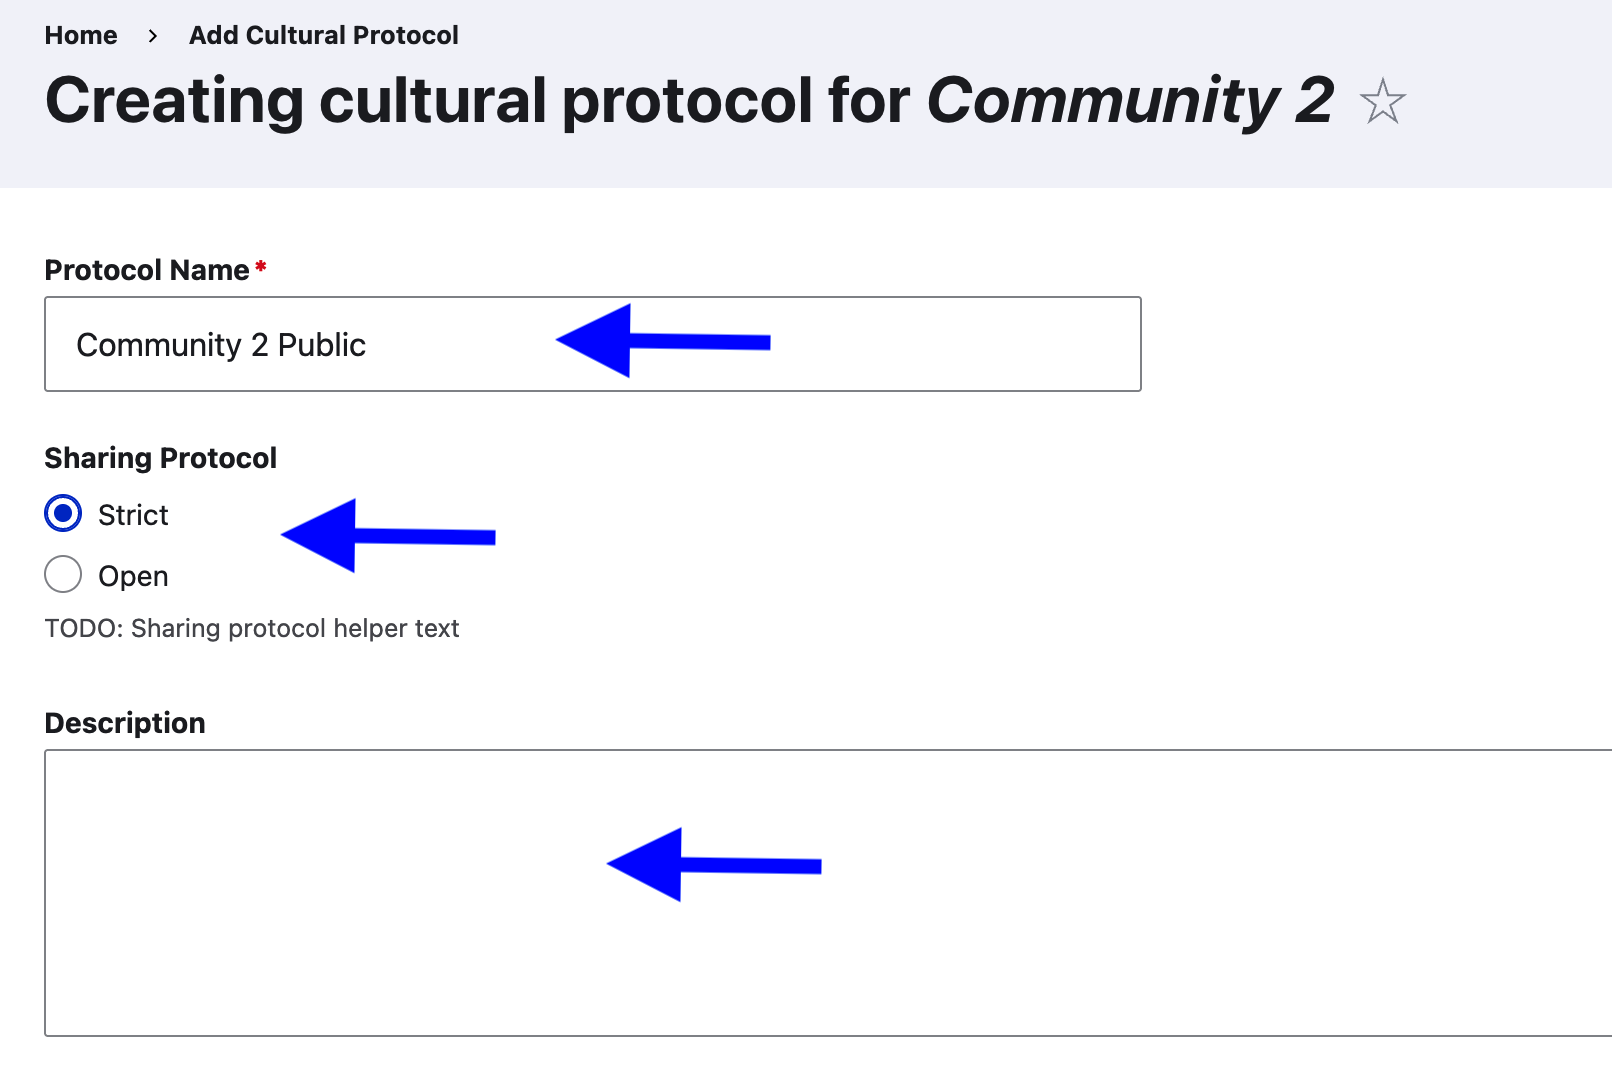
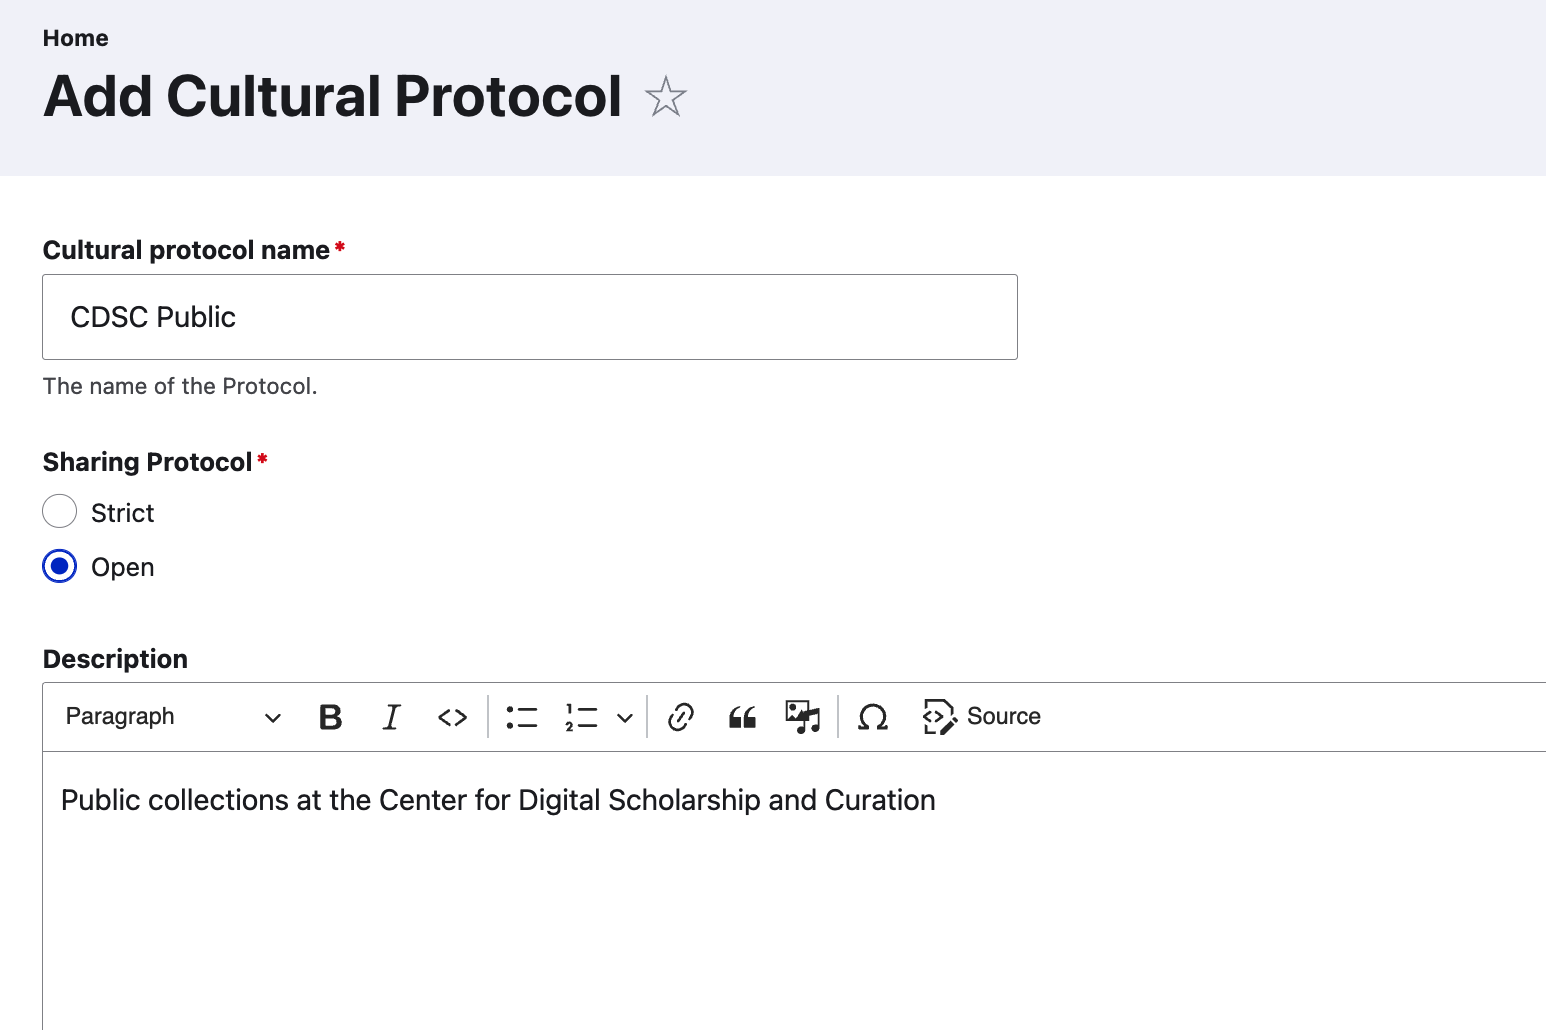
3Cs edits
merged two separate create cultural protocol articles into one, updated article names to convention

diff --git a/docs/3Cs/CreateACulturalProtocol.md b/docs/3Cs/CreateACulturalProtocol.md
@@ -1,0 +1,74 @@
+# Create a cultural protocol
+
+!!! roles "User Roles"
+    Mukurtu administrator, protocol steward
+
+There are several ways to create a new cultural protocol. A separate article discusses [creating a community and initial cultural protocol](Create-a-community-and-initial-cultural-protocol.md).
+
+This article covers two other methods for creating a cultural protocol - from the dashboard and through an existing community.
+
+## Create a cultural protocol from the dashboard
+
+1. From the Mukurtu Dashboard, select **Cultural Protocols**, then select "Add Protocol."
+
+     ![A screeshot of the Mukurtu dashboard with a list of links to various functions and an arrow pointed at cultural protocols](../_embeds/Createprotocol6.png)
+
+     ![Screenshot of the Mukurtu cultural protocols view within the dashboard with a list of links to the left and a red button labeled Add Protocol with a plus sign to the right.](../_embeds/create-protocol-11.png)
+
+2. Name your protocol. It's helpful to name the organization or group associated with this protocol and indicate an access level. (i.e. CDSC Public).
+
+3. Select a sharing protocol. **Any** means that a user must be a member of at least one of the assigned protocols to view the item. **All** means that a user must be a member of all assigned protocols to view the item. 
+
+4. Add a description (if desired).
+
+    ![Screenshot of the form used to create a new cultural protocol. The visible fields are protocol name, sharing protocol with any/all settings, and description](../_embeds/createprotocol1.png)
+
+    !!! tip
+        Items with just one protocol can use either setting. For more information, see [Sharing Settings](SharingSettings.md) 
+
+
+5. In *communities* enter the community name. A list of communities you belong to will autopopulate. You may add additional communities to this protocol by selecting "Add another item". 
+
+    ![Screenshot of the community field with a grey "remove" button to the right and an "add another item" button directly below the field.](../_embeds/Createprotocol09.png)
+
+    !!! Tip
+        You must be a community member of the community you wish to add.
+
+6. The remaining fields are optional. You may edit the author of the protocol in the *Authored by* field, specify a URL alias, and log any revisions. 
+
+7. Check or uncheck *Published* and select "Save."
+
+    ![Save](../_embeds/CreateProtocol5.png) 
+
+## Create a cultural protocol through an existing community
+
+!!! roles "User Roles"
+    Community Manager
+
+1. From the Mukurtu dashboard, select "Communities". On the right hand side, a list of communities will populate. Select the community to which you would like to add your new protocol.
+
+    ![Alt text](../_embeds/create-protocol-12.png)
+
+    ![Alt text](../_embeds/create-protocol-13.png)
+
+2. Select **Add cultural protocol**
+
+    ![Alt text](../_embeds/create-protocol-14.png)
+
+3. Add a *protocol name*, select a *sharing protcol* and add a *description* to your protocol. 
+
+    ![Alt text](../_embeds/create-protocol-15.png)
+
+4. Next, choose *protocol stewards* by selecting **Select Members**. 
+
+    ![Alt text](../_embeds/create-protocol-16.png)
+
+5. Search for community members or select from the list of protocol members shown. When you have made your selections, select "Add Users." You may also remove users by selecting "Remove" under any user who has already been added. --INSERT LINK TO READ MORE ABOUT PROTOCOL STEWARDS--
+
+    ![Alt text](../_embeds//create-protocol-17.png)
+
+5. Repeat this step to add *protocol members*.
+
+6. When you are finished, select "Save and Create Another Protocol" if you have additional protocols to add, or "Save" if you are finished. You can add additional protocols later using these steps.
+
+    ![Alt text](../_embeds//create-protocol-18.png)
